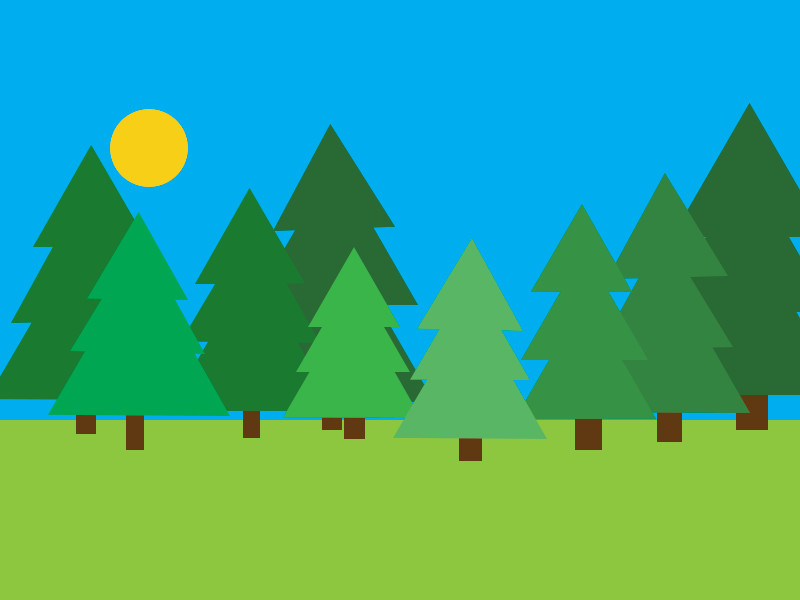
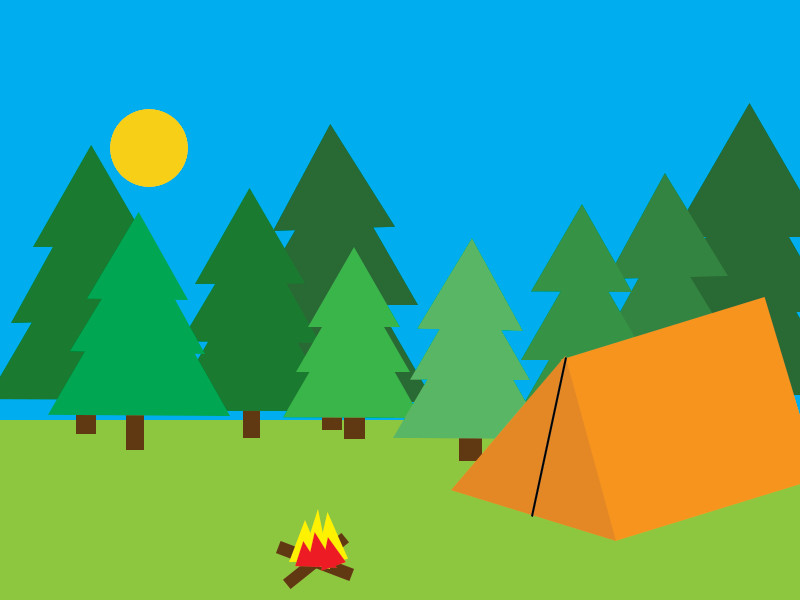
4/5 scenes staged
scenes almost done

Changed region(s): [[0.5625, 0.48, 1.0, 0.9], [0.3438, 0.84, 0.4375, 0.99]]

diff --git a/sketch.js b/sketch.js
@@ -1,52 +1,44 @@
-//scene one
-var backgroundoneImage;
-var tree1_1;
-var tree1_2;
-var tree1_3;
-var tree1_4;
-var blimponeImage;
-var boyoneImage;
-var momImage;
-//scene two
-var backgroundtwoImage;
-var redImage;
-var tentImage;
-var woodImage;
-var yellowImage;
-//scene three berries
-var backgroundthreeImage;
-//scene four fish
-var backgroundfourImage;
-var fishaliveImage;
-var fishdeadImage;
-// house scene
-var currentScene = "homeA"
-	// var blimpA = +200;
-var blimpB = 300;
+var blimpone;
+var blimptwo;
+var boyone;
+var fishalive;
+var fishdead;
+var list;
+
+var arm;
+var backgroundtwo;
+var backgroundthree;
+var backgroundfour;
+// var x = backgroundfourImage;
+var currentScene = "campA"
+	// var currentSceneC = "campC"
+	// var currentSceneD = "campD"
+	// var currentSceneB = "campB"
+	// var blimpA
+var blimpA = 400;
+//var blimpB
+var blimpB = 650;
+var appleA = 130
+var fishA = 500;
+var fishB = 500
+
 
 
 function preload() {
-	//scene one home
-	backgroundoneImage = loadImage("images/backgroundone.jpg");
-	tree1_1Image = loadImage("images/tree1_1.png");
-	tree1_2Image = loadImage("images/tree1_2.png");
-	tree1_3Image = loadImage("images/tree1_3.png");
-	tree1_4Image = loadImage("images/tree1_4.png");
-	blimponeImage = loadImage("images/blimpone.png");
-	boyoneImage = loadImage("images/boyone.png");
-	momImage = loadImage("images/mom.png");
 	//scene two tent
 	backgroundtwoImage = loadImage("images/backgroundtwo.jpg");
-	redImage = loadImage("images/red.png");
-	tentImage = loadImage("images/tent.png");
-	woodImage = loadImages("images/wood.png");
-	yellowImage = loadImages("images/yellow.png");
+	boyoneImage = loadImage("images/boyone.png");
+	listImage = loadImage("images/list.png");
+	blimptwoImage = loadImage("images/blimptwo.png");
 	//scene three berries
-	backgroundthreeImage = loadImage("images/backgroundthree.png");
+	backgroundthreeImage = loadImage("images/backgroundthree.jpg");
 	//scene four fish
 	backgroundfourImage = loadImage("images/backgroundfour.jpg");
 	fishaliveImage = loadImage("images/fishalive.png");
 	fishdeadImage = loadImage("images/fishdead.png");
+	appleImage = loadImage("images/apple.png");
+	armImage = loadImage("images/arm.png");
+	backgroundfiveImage = loadImage("images/backgroundfive.png");
 }
 
 function setup() {
@@ -55,38 +47,101 @@ function setup() {
 }
 
 function draw() {
-	//home scene	if (currentScene === "nightA")
-	if (currentScene === "homeA") {
-		drawHomeA();
-	} else if (currentScene === "campA") {
+	if (currentScene === "campA") {
 		drawCampA();
+	} else if (currentScene === "campB") {
+		drawCampB();
+	} else if (currentScene === "campC") {
+		drawCampC();
+	} else if (currentScene === "campE") {
+		drawCampE();
 	}
 }
 
-function drawHomeA() {
-	image(backgroundoneImage, 0, 0);
-	image(tree1_3Image, 340, 170);
-	image(tree1_2Image, 240, 170);
-	image(tree1_1Image, 190, 210);
-	image(boyoneImage, 500, 250);
-	//animate blimp
-	// change position
-	blimpB = blimpB - .5;
-	//contrain blimp
-	if (blimpB < 170) {
-		blimpB = 300;
-	}
-	image(blimponeImage, blimpB, 120);
+function drawCampE() {
+	image(backgroundfiveImage, 0, 0);
+
 }
 
 function drawCampA() {
 	image(backgroundtwoImage, 0, 0);
+	image(boyoneImage, 100, 250);
+	//animate blimp two
+	blimpB = blimpB - .5;
+	//contrain blimp
+	if (blimpB < 0) {
+		blimpB = 650;
+	}
+	image(blimptwoImage, blimpB, 70);
+	//list
+	if (mouseX > 500) {
+		if (mouseX < 800) {
+			if (mouseY > 250) {
+				if (mouseY < 600) {
+					image(listImage, 0, 0);
+				}
+			}
+		}
+	}
 }
 
+function drawCampB() {
+	image(backgroundthreeImage, 0, 0);
+
+	image(appleImage, 200, 100);
+	//user becomes cursor
+	image(armImage, mouseX, mouseY);
+
+	//to fourth scene
+	mouseWasPressed = mouseIsPressed;
+	if (mouseIsPressed &&
+		mouseX > 100 &&
+		mouseX < 300 &&
+		mouseY > 100 &&
+		mouseY < 300) {
+		image(backgroundfourImage, 0, 0);
+
+		fishA = fishA - 4;
+		//animate fish
+		if (fishA < 0) {
+			fishA = 500;
+		}
+		image(fishaliveImage, fishA, 300);
+		image(fishdeadImage, 300, 300);
+
+	}
+}
+
+function drawCampC() {
+	image(backgroundfourImage, 0, 0);
+	//	animate fish
+	fishA = fishA - 4;
+	//contrain blimp
+	if (fishA < 0) {
+		fishA = 500;
+	}
+	image(fishaliveImage, fishA, 300);
+
+
+
+}
+
+
+
+function drawCampE() {
+	image(backgroundfiveImage, 0, 0);
+
+}
+
+
+
 function mouseReleased() {
-	if (currentScene === "homeA") {
-		currentScene = "campA";
-	} else {
-		currentScene = "homeA";
+	if (currentScene === "campA") {
+		currentScene = "campB";
+	} else if (currentScene === "campB") {
+		currentScene = "campC";
+	} else if (currentScene === "campC") {
+		currentScene = "campE";
+
 	}
 }
